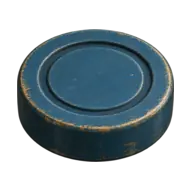
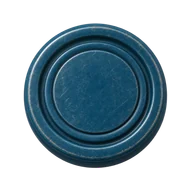
feat: generate retro token and disc sprites

diff --git a/docs/design/game-art-fidelity-ledger.md b/docs/design/game-art-fidelity-ledger.md
@@ -157,3 +157,18 @@ Accepted seven deterministic Modern Hangman illustrations authored by the approv
 The generator uses one conditional assembly model and emits one separate source PNG per role; it is an authoring-only Node script and does not enter the application bundle. The platform/frame is drawn from identical definitions at every later stage, while additions are layered behind retained pieces to prevent geometry or material drift. The normalizer then applies one union crop, one scale, and one lower base anchor to all seven sources without upscaling.
 
 Stage remains `generation-batches`: 36 completed custom records, 72 `generationPending` custom records, and nine unchanged `authorityReferencePending` quarter slots. Only the seven Modern Hangman records gained completion dates and generator provenance. All 117 registered finals total 796,264 bytes; the largest remains the inherited 17,732-byte Arcade Hangman stage 6, below the 2 MiB total and 64 KiB per-file limits. This batch changes artwork and authoring contracts only; it does not alter Hangman gameplay logic or claim a fresh browser gameplay audit.
+
+## Task 2F Retro tokens and discs — 2026-09-28
+
+Accepted seven distinct first-pass built-in image generations after original-resolution source inspection and deterministic exact-asset normalization: terracotta-red player1 X, deep-blue player2 O, matching red/blue Connect Four discs and checker discs, and one shared gold crown. No candidate needed a retry. Exact accepted prompts, portable paths, actual generation timestamps, and review timestamps are in the seven Retro manifest records. The copied PNGs are byte-identical to the built-in outputs; source preparation removes only detached sub-5% alpha residue in memory.
+
+| Inspection | Evidence and result |
+| --- | --- |
+| Original sources | All seven 1254×1254 true-alpha PNGs were inspected at native dimensions through the approved high-quality WebP inline fallback after `view_image` failed because bubblewrap is unavailable. Alpha and geometry measurements use the untouched PNGs. The X/O are complete painted-wood tokens with a clear O opening; the four discs use coherent worn Bakelite-style material; the crown is one separate three-rounded-point marker with no checker disc. |
+| Production-size light/dark | [Light](qa/retro-tokens-discs-full-light.webp) and [dark](qa/retro-tokens-discs-full-dark.webp) sheets show the exact seven final WebPs in 256px cells. All silhouettes, recessed Connect Four centers, checker ridges, ownership colors, restrained wear, and the crown remain clear with no opaque box, checkerboard, text, watermark, ground plane, clipping, or extra meaningful object. |
+| Phone-size readability | [Light](qa/retro-tokens-discs-phone-light.webp) and [dark](qa/retro-tokens-discs-phone-dark.webp) 64px-cell sheets retain red/blue ownership, the open O, the Connect Four/checker ridge distinction, and the crown silhouette on both backgrounds. |
+| Alpha, geometry, and budget | Source preparation removes 202–2,961 detached faint-alpha pixels per source without rewriting the PNGs. Every final has genuine alpha, transparent corners, no edge contact, one meaningful component containing 100% of connected foreground, 76.04–76.17% longest-bound fill, and at least 11.72% padding. Batch finals total 71,056 bytes; largest final is 14,328 bytes. Sources total 10,231,402 bytes and remain outside the runtime budget. |
+
+Contact-sheet order is X, O, red Connect Four, blue Connect Four, red checker, blue checker, crown. Stage remains `generation-batches`: 43 completed custom records, 65 `generationPending` custom records, and nine unchanged `authorityReferencePending` quarter slots. All 117 production sprites total 823,254 bytes; the largest remains the inherited 17,732-byte Arcade Hangman stage 6, below the 2 MiB total and 64 KiB per-file limits.
+
+Only these seven records, sources, finals, and four QA sheets belong to this batch. No catalog, registry, validator, dependency, or gameplay change was needed, and this inspection does not claim a fresh browser gameplay audit.
